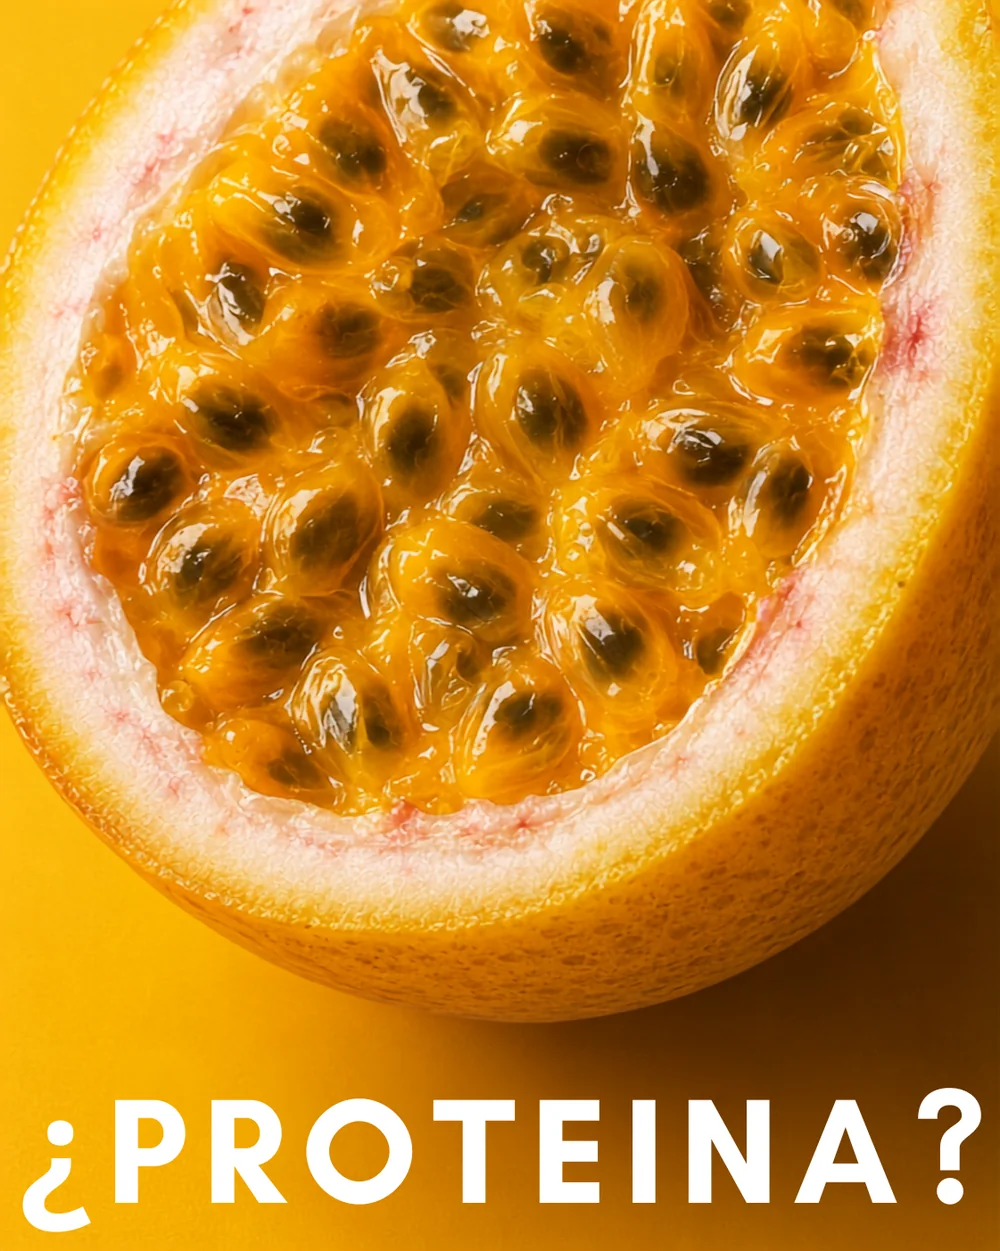
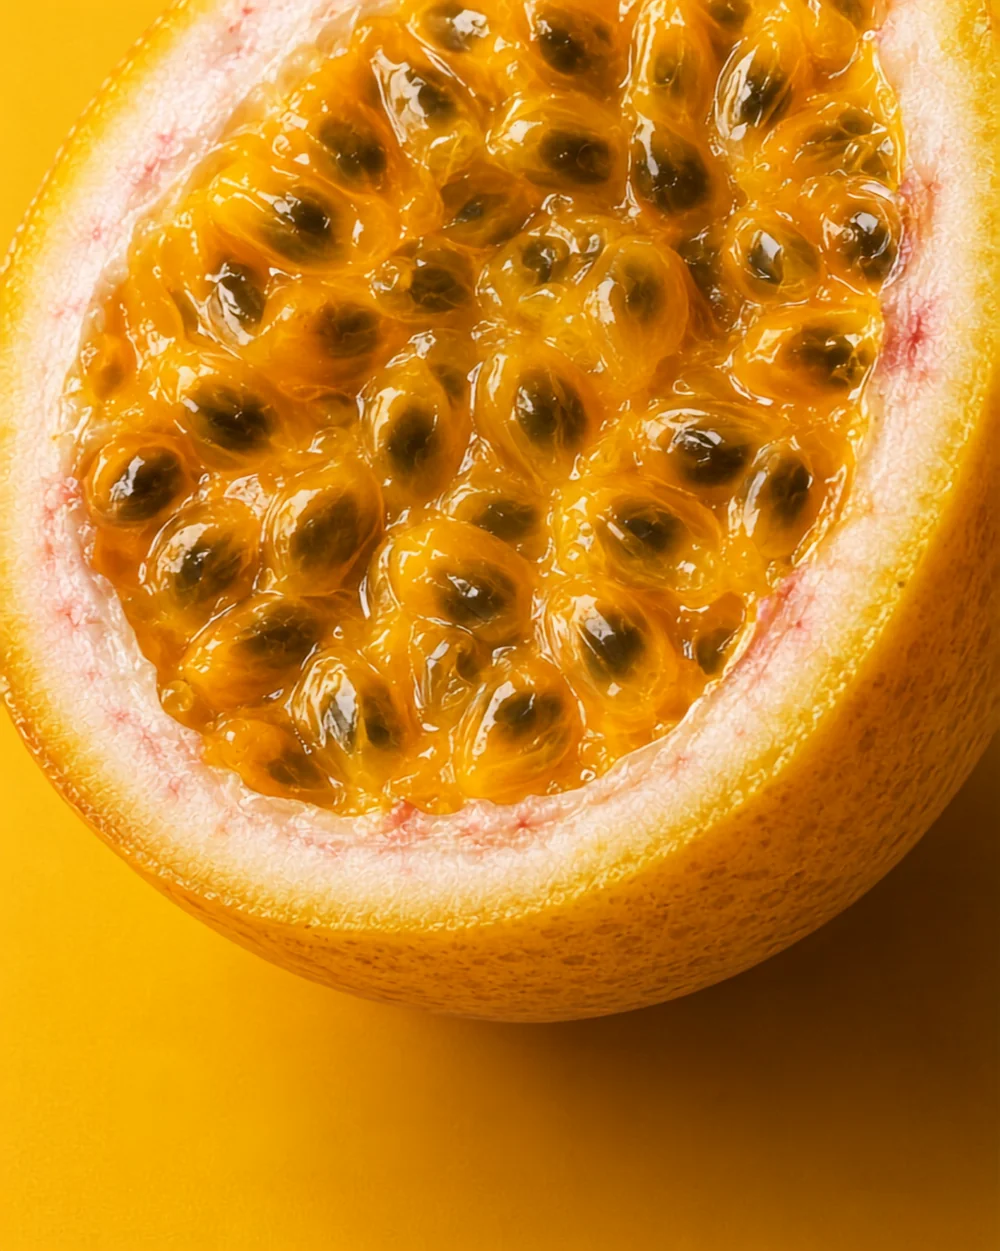
Swap in text-free photography and add a dedicated share-link image
Replace the hero, product, flavor-diptych, and closing-CTA photos with
the clean (no-text) versions. Since the fruit shots no longer carry
the "¿Proteína?" copy baked in, add it as a real heading above the
diptych instead. Also add assets/og-share.jpg (1200x628) and wire it
up as the og:image/twitter:image so links shared to WhatsApp/social
show a proper preview card instead of a random page image.

Changed region(s): [[0.434, 0.8729, 0.899, 0.9664], [0.0, 0.8729, 0.434, 0.9976], [0.899, 0.8729, 0.992, 0.9664]]

diff --git a/web/index.html b/web/index.html
@@ -11,7 +11,11 @@
 <meta property="og:site_name" content="dPTM Nutrition" />
 <meta property="og:title" content="dPTM Nutrition — Clear Protein Colombia · MaracuMango" />
 <meta property="og:description" content="20g de proteína. 0 azúcar. Se mezcla con agua fría. La proteína que no parece proteína." />
-<meta property="og:image" content="assets/product-hero.webp" />
+<meta property="og:url" content="https://dptmnutrition.com/" />
+<meta property="og:image" content="https://dptmnutrition.com/assets/og-share.jpg" />
+<meta property="og:image:width" content="1200" />
+<meta property="og:image:height" content="628" />
+<meta name="twitter:image" content="https://dptmnutrition.com/assets/og-share.jpg" />
 <meta name="twitter:card" content="summary_large_image" />
 <link rel="icon" type="image/png" sizes="32x32" href="assets/favicon-32.png" />
 <link rel="icon" type="image/png" sizes="256x256" href="assets/favicon.png" />
@@ -233,6 +237,11 @@
 
   /* ---------- flavor diptych ---------- */
   .flavor-section{background:var(--bone);padding:70px 0 0;}
+  .flavor-question{
+    text-align:center;font-family:'Anton',sans-serif;font-weight:400;
+    font-size:clamp(40px,8vw,88px);letter-spacing:-.01em;color:var(--ink);
+    margin:0 0 28px;
+  }
   .flavor-diptych{display:grid;gap:14px;grid-template-columns:1fr 1fr;}
   .flavor-frame{border-radius:22px;overflow:hidden;aspect-ratio:4/5;position:relative;}
   .flavor-frame img{width:100%;height:100%;object-fit:cover;}
@@ -484,9 +493,10 @@
   <!-- SABOR / ¿PROTEÍNA? -->
   <section class="flavor-section">
     <div class="wrap">
+      <h2 class="flavor-question reveal">¿Proteína?</h2>
       <div class="flavor-diptych reveal">
-        <div class="flavor-frame"><img src="assets/flavor-passion.webp" alt="Maracuyá partido a la mitad — ¿Proteína?" /></div>
-        <div class="flavor-frame"><img src="assets/flavor-mango.webp" alt="Mango en cubos — ¿Proteína?" /></div>
+        <div class="flavor-frame"><img src="assets/flavor-passion.webp" alt="Maracuyá partido a la mitad" /></div>
+        <div class="flavor-frame"><img src="assets/flavor-mango.webp" alt="Mango en cubos" /></div>
       </div>
       <p class="flavor-caption reveal"><span>Sí.</span> Saborizantes de maracuyá y mango que saben a fruta de verdad — sin azúcar, sin culpa.</p>
     </div>
